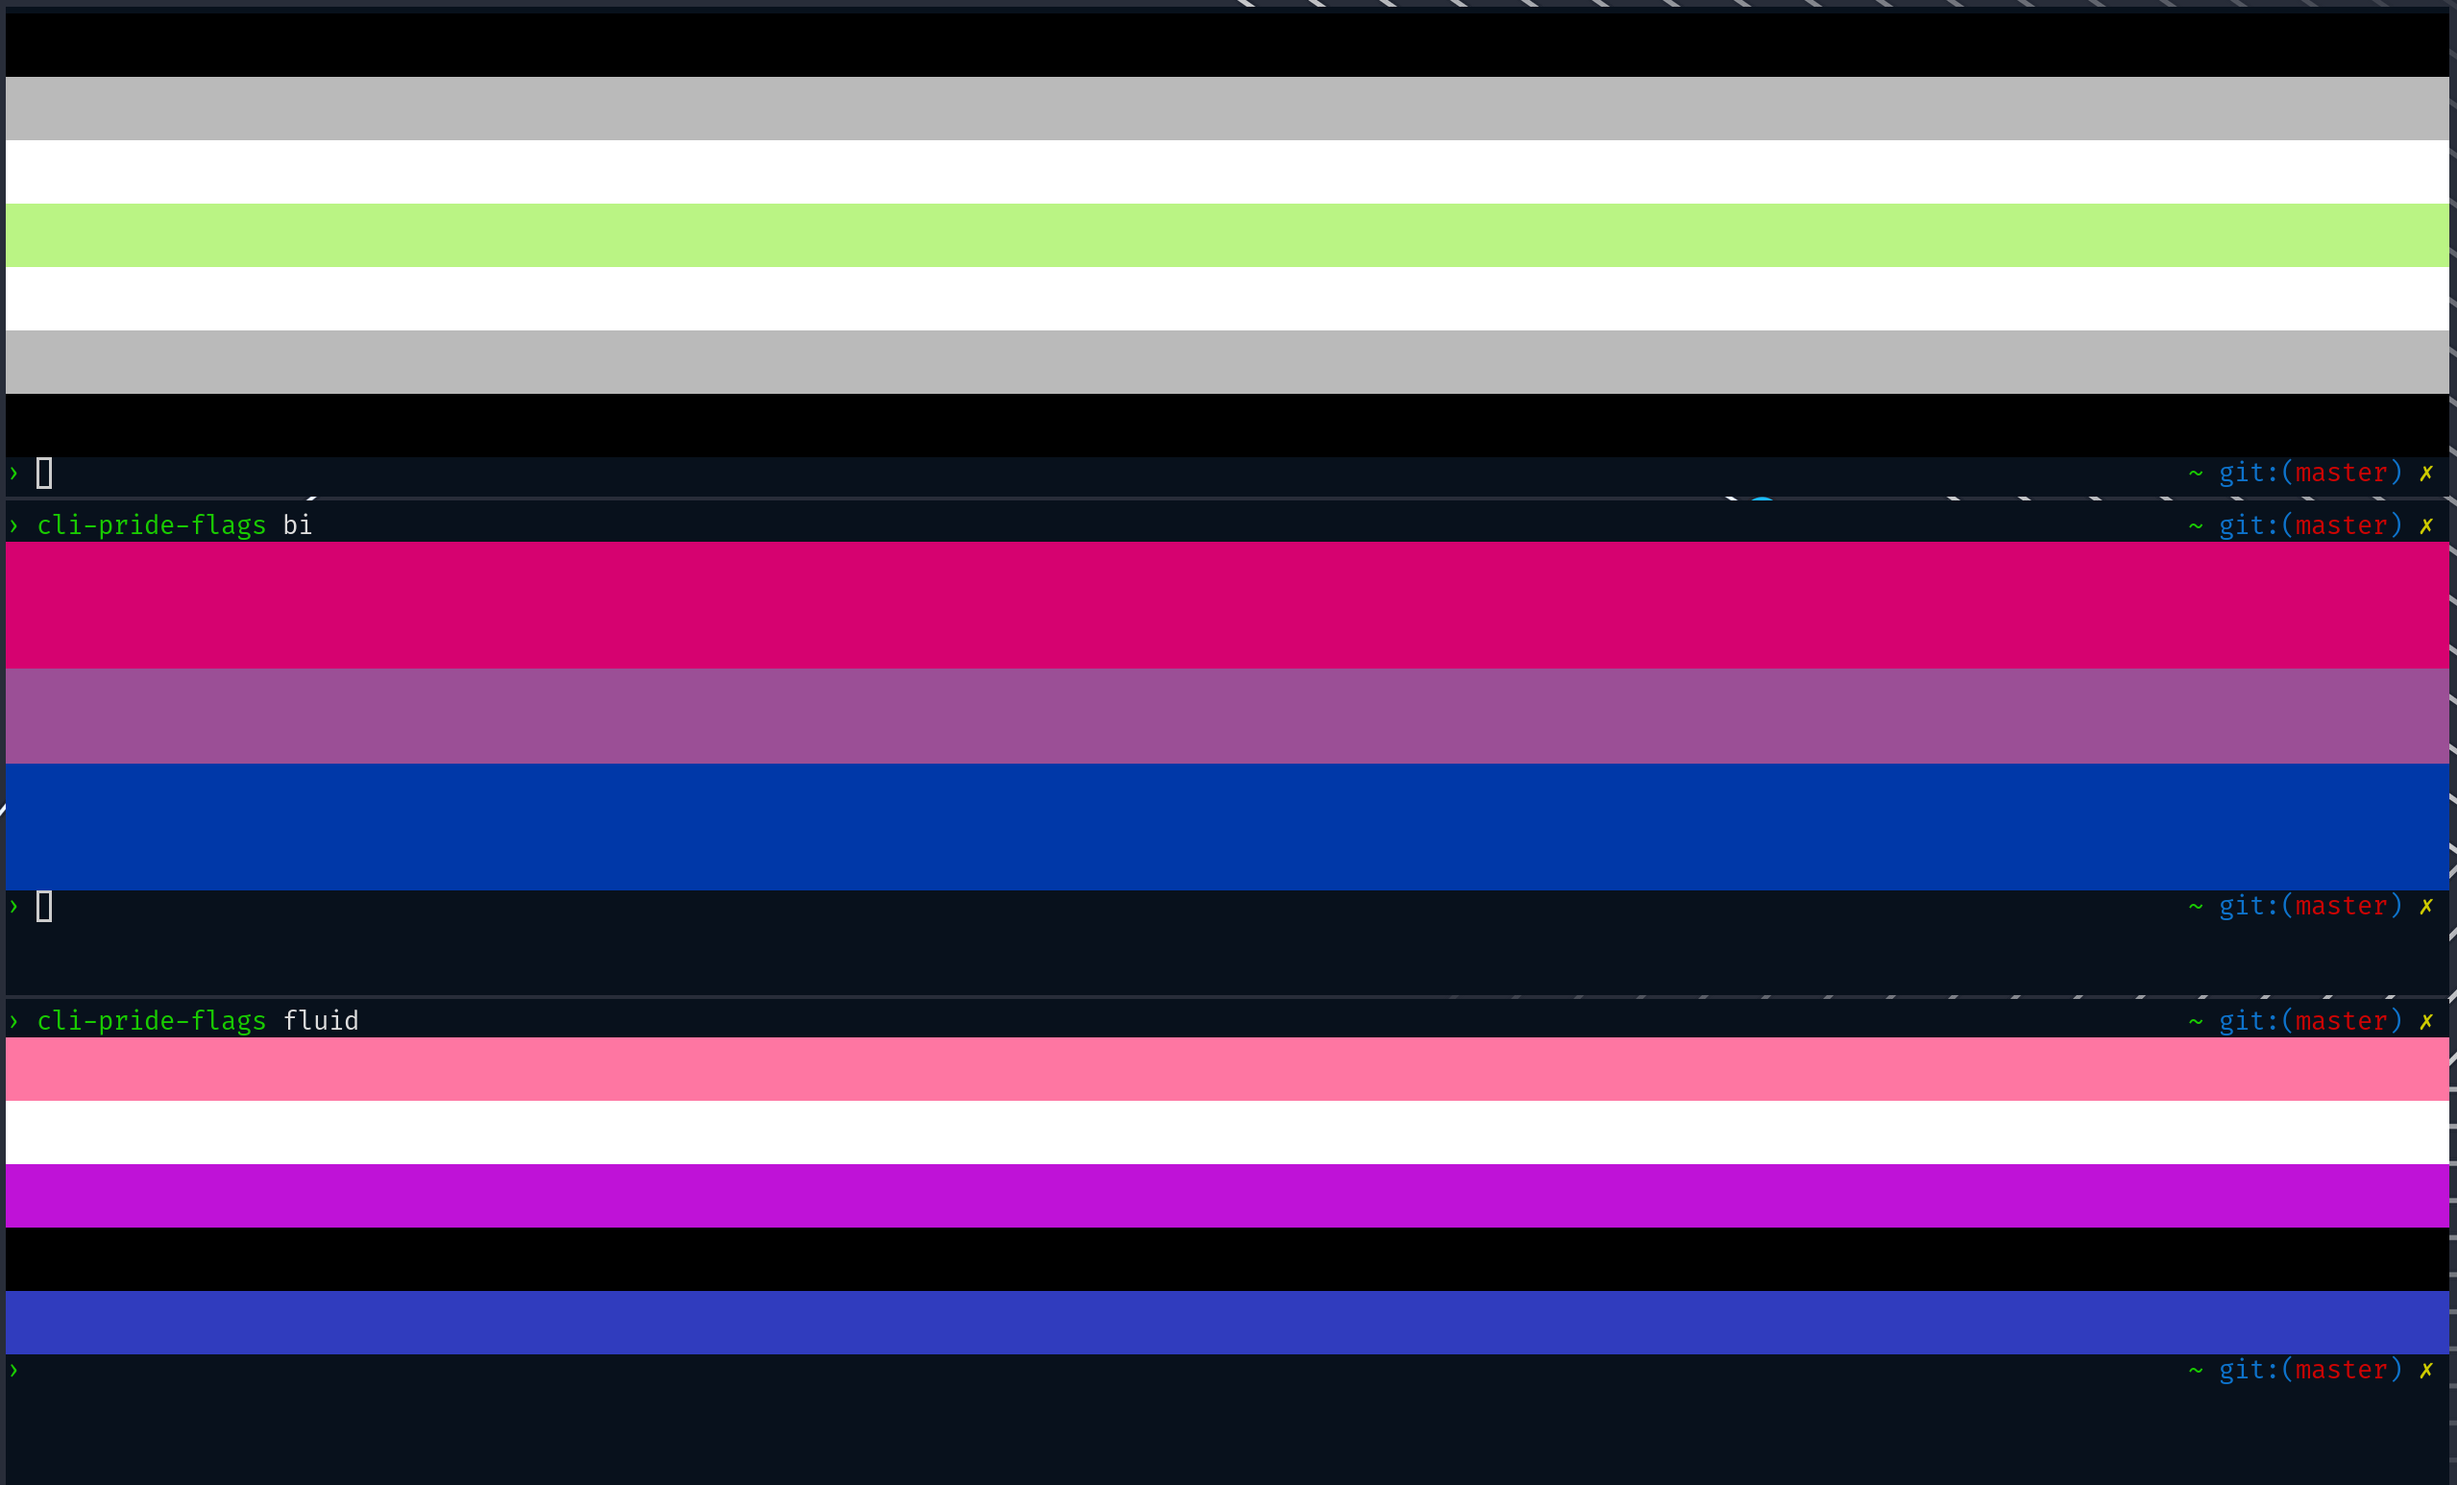
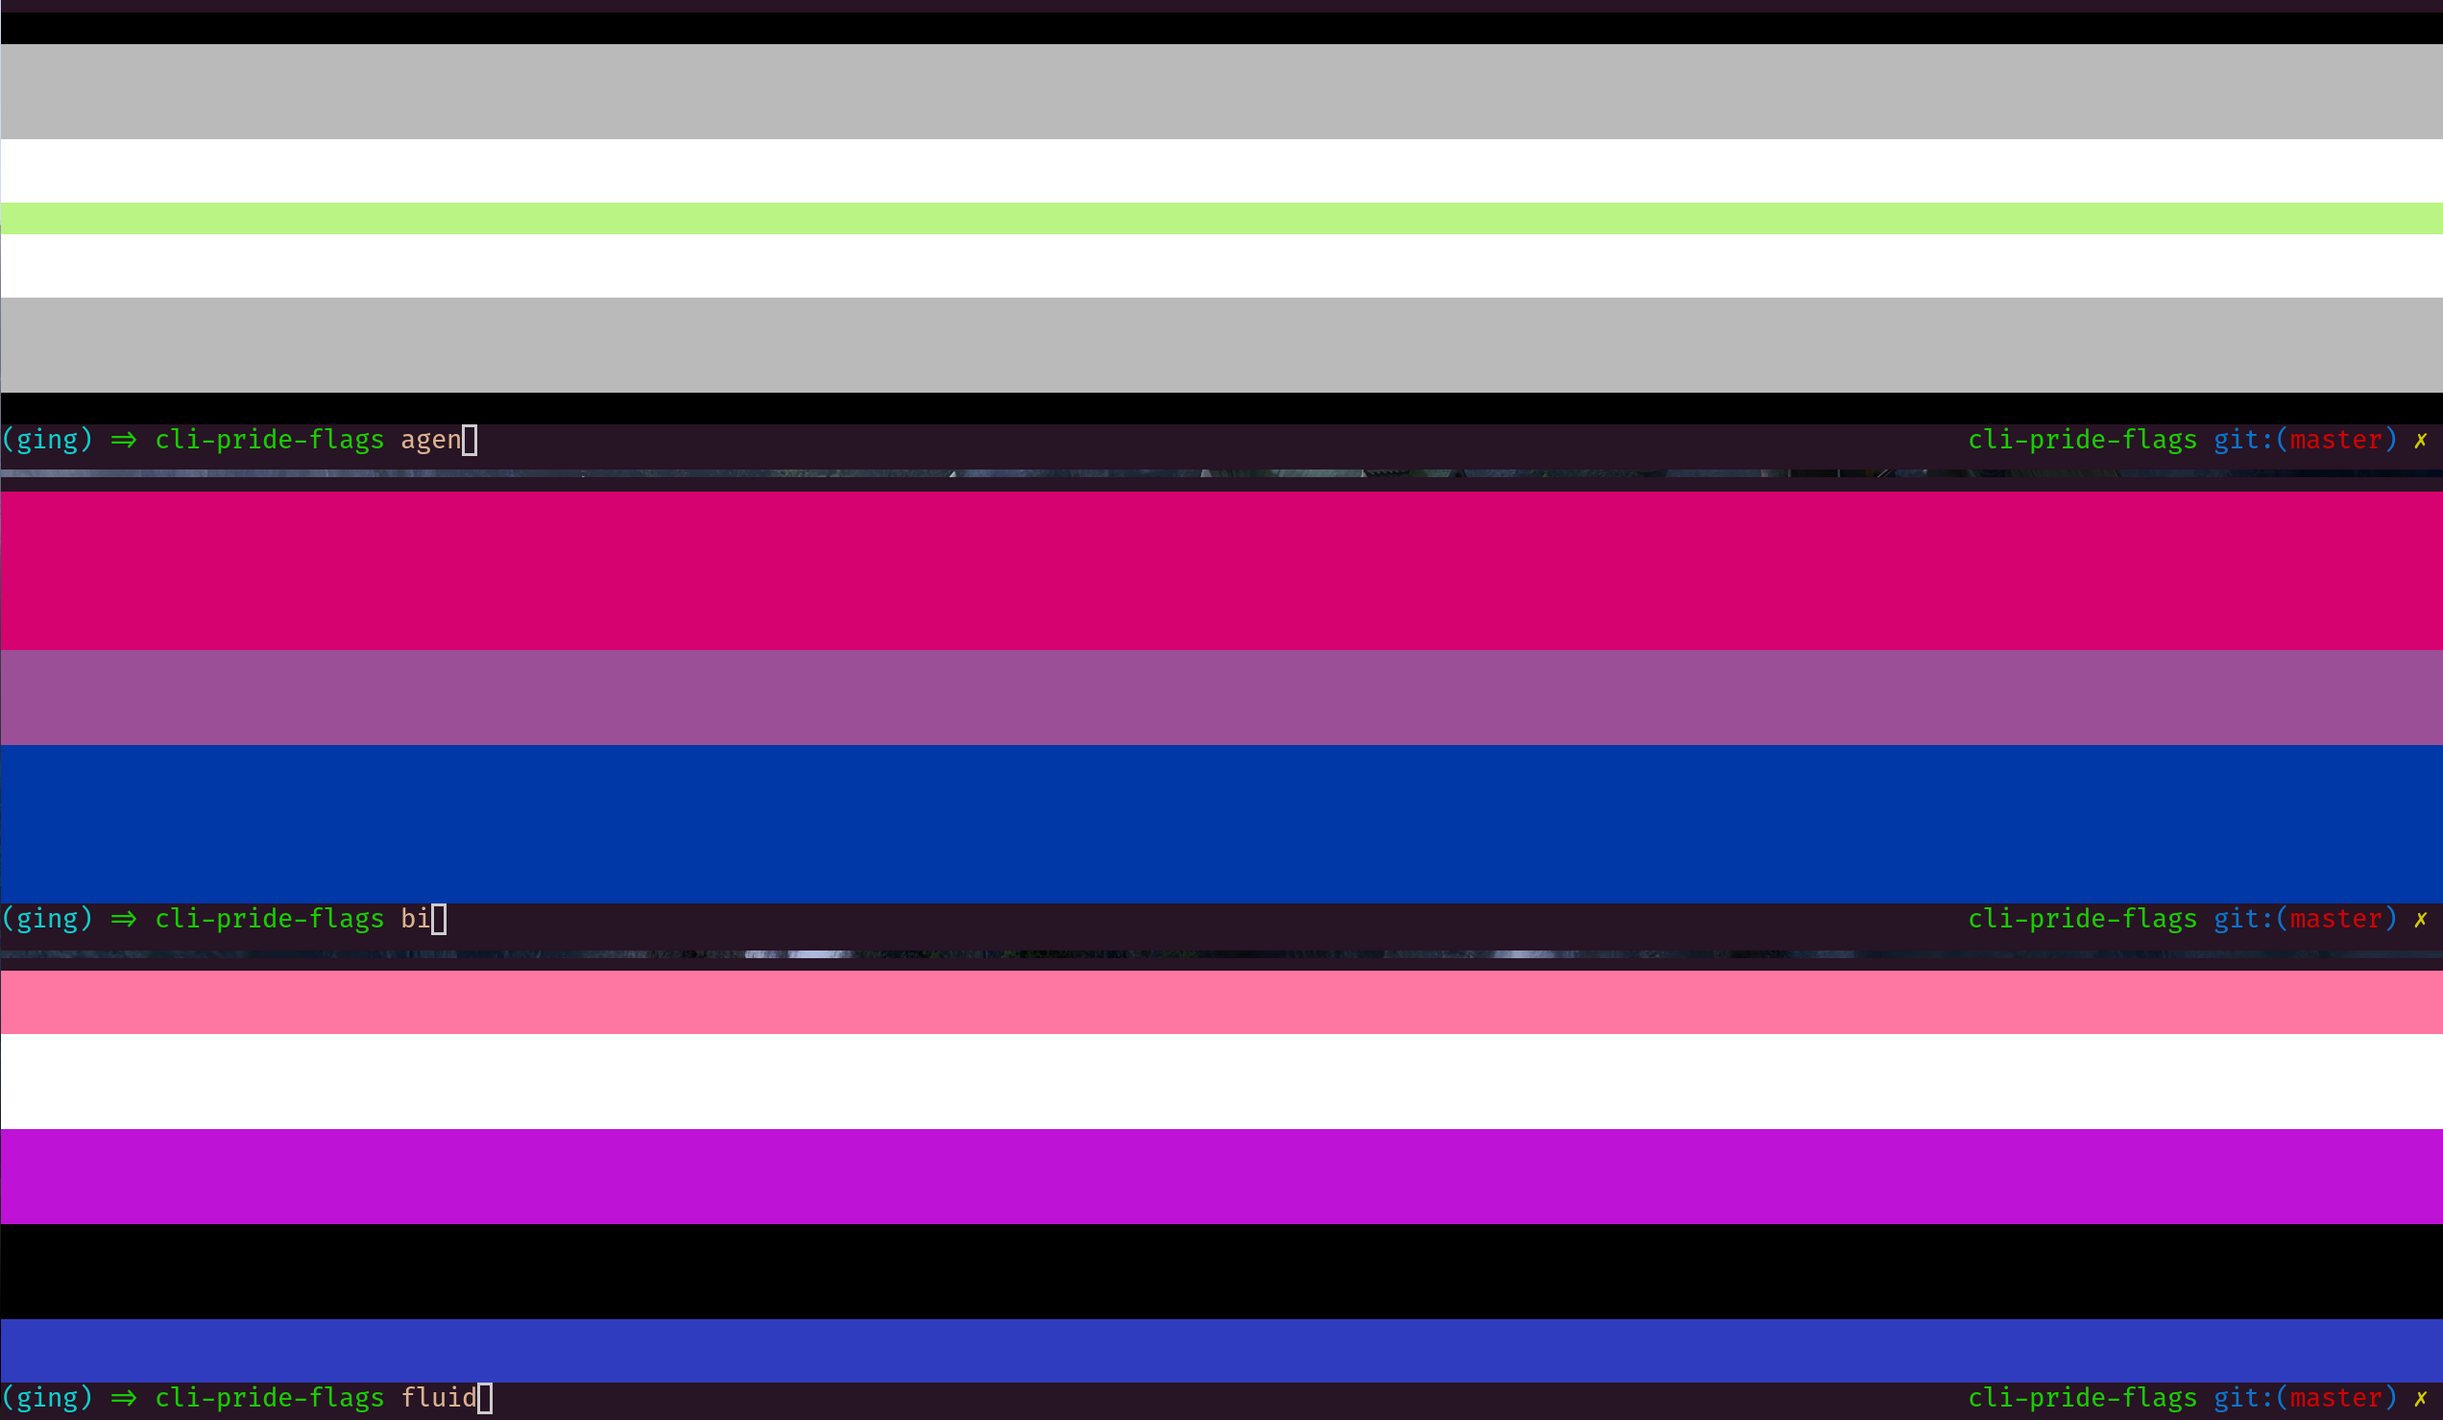
cleanup code, update screenshots

diff --git a/src/main.js b/src/main.js
@@ -1,87 +1,48 @@
 #!/usr/bin/env node
 
+// import deps
 const chalk = require("chalk")
+// import local files
 const flags = require("./flags.json")
 const { name, version } = require('../package.json')
-const { toCumulativeWeights, FlagColors } = require('./util')
+const { scaleFlag, stripDashes, FlagColors, ArgParser } = require('./util')
 const BLOCK = "█"
-const MINI_FLAG_DISTANCE = 12 // spaces from the left
-const { args, options } = parseArgs(process.argv.slice(2))
+const argparser = new ArgParser({
+    'help': { aliases: ['h'], description: 'Display this help text'},
+    'gradient': { aliases: ['g'], description: 'Make the flag a smooth gradient'},
+    'live': { aliases: ['l'], description: 'Hold the terminal open and redraw the flag upon resize, closing when any key is pressed'},
+    'vertical': { aliases: ['v'], description: 'Display the flag, but vertically'}
+})
+const {args, options} = argparser.parse()
 const CHOSEN_FLAG = args[0]
-const horizontalFunc = (row, col) => row / stripeHeight;
-const verticalFunc = (row, col) => col / stripeWidth;
-const funcToUse = options.vertical ? verticalFunc : horizontalFunc;
-
-// basic cli arg parser
-function parseArgs(args) {
-    let result = {
-        args: [],
-        options: {
-            help: false,
-            keepalive: false,
-            vertical: false,
-            gradient: false
-        }
-    }
-    for (const arg of args) {
-        if (arg.startsWith('-')) {
-            switch (arg) {
-                case '-h': {
-                    result.options.help = true
-                    break
-                }
-                case '-l': {
-                    result.options.keepalive = true
-                    break
-                }
-                case '-v': {
-                    result.options.vertical = true
-                    break
-                }
-                case '-g': {
-                    result.options.gradient = true
-                    break
-                }
-                default: {
-                    break
-                }
-            }
-        } else {
-            result.args.push(arg)
-        }
-    }
-    return result
-}
 
 function help() {
     console.log(`Usage: ${chalk.green(name)} ${chalk.blue("[options...]")} ${chalk.yellow("[flag]")}`)
     console.log("Options:")
-    // honestly ill just hardcode these
-    console.log("  -h    Display this help text")
-    console.log("  -l    Hold the terminal open and redraw the flag upon resize, closing when any key is pressed")
-    console.log("  -v    Display the flag, but vertically")
+    console.log(argparser.listOptions())
     console.log("Flags:")
-    let flagList = ""
-    const flagKeys = Object.keys(flags).sort()
-    for (const flag of flagKeys) {
-        // we want all the mini-flags to be at the same distance,
-        // so figure out how many spaces we need to add
-        const spaces = MINI_FLAG_DISTANCE - flag.length
-        let s = `  ${flag}` // indent flag...
-        s = s.padEnd(s.length + spaces, " ") // ...add calculated spaces...
-        for (const color of flags[flag].stripes) {
-            s += chalk.hex(color.code)(BLOCK) // and then make the flag
+    let flagList = []
+    const flagNames = Object.keys(flags).sort()
+    const MINI_FLAG_DISTANCE = 12
+    for (const flagName of flagNames) {
+        // we want all the mini-flags to be at the same starting distance from the left,
+        // so figure out how many spaces we need to add after the flags name
+        const spaces = MINI_FLAG_DISTANCE - flagName.length
+        let flagLine = `  ${flagName}` // indent the line...
+        flagLine = flagLine.padEnd(flagLine.length + spaces, " ") // ...add calculated spaces...
+        for (const color of flags[flagName].stripes) {
+            flagLine += chalk.hex(color.code)(BLOCK) // ..and then add the miniflag
         }
-        flagList += `${s}\n`
+        flagList.push(flagLine)
     }
-    console.log(chalk.green(flagList))
-    console.log(chalk.green(`${name} ${chalk.yellow(`v${version}`)}\n${chalk.reset("Flag count:")} ${chalk.blue(flagKeys.length)}`))
+    console.log(chalk.greenBright(flagList.join('\n')))
+    console.log(chalk.green(`${name} ${chalk.yellow(`v${version}`)}\n${chalk.reset("Flag count:")} ${chalk.blue(flagNames.length)}`))
 }
 
 
 function createFlag() {
     const colors = new FlagColors(flag)
-    const { availableHeight, stripeHeightsFinal, availableWidth } = scaleFlag(flag)
+    const { availableHeight, stripeHeightsFinal, availableWidth } = scaleFlag(flag, options)
     let finishedFlag = ""
     let currLine = 0
     for (const stripeIndex in flag.stripes) {
@@ -102,26 +63,6 @@ function createFlag() {
     return finishedFlag
 }
 
-function scaleFlag(flag, vertical = false) {
-    const direction = (vertical ? process.stdout.columns : process.stdout.rows)
-    const flagHeight = flag.stripes.reduce((a, stripe) => a + stripe.height, 0)
-    const maxScale = Math.floor(direction / flagHeight)
-    const availableHeight = (options.keepalive ? flagHeight * maxScale : process.stdout.rows)
-    const availableWidth = process.stdout.columns
-    const stripeHeights = flag.stripes.map(stripe => stripe.height)
-    const stripeRowNumbers = toCumulativeWeights(stripeHeights) // map each stripe height to a percentage...
-        .map(weight => { // i tried to make this a ternary but it wouldnt work :<
-            if (vertical) {
-                return weight * availableWidth
-            } else {
-                return weight * availableHeight
-            }
-        }) // ...map back to line numbers in the available space...
-        .map(Math.floor) // ...and err on the side of caution, floor it to whole numbers (unless you have a fancy terminal that has half-lines?)
-    const stripeHeightsFinal = stripeRowNumbers.map((e, i, a) => e - a[i - 1] || e) // now squash to the screen
-    return { flagHeight, maxScale, stripeHeightsFinal, availableHeight, availableWidth }
-}
-
 function createVerticalFlag() {
     // just createFlag but v
     //                     e
@@ -132,15 +73,14 @@ function createVerticalFlag() {
     //                     a
     //                     l
     const colors = new FlagColors(flag)
-    const { availableHeight, stripeHeightsFinal, availableWidth } = scaleFlag(flag, true)
+    const { availableHeight, stripeHeightsFinal, availableWidth } = scaleFlag(flag, options, true)
     let finishedFlag = ""
     // outer loop fills the screen
     let currPos = 0
     for (const stripeIndex in flag.stripes) {
         const stripeWidth = stripeHeightsFinal[stripeIndex]
         for (let j = 0; j < stripeWidth; j++) {
-            //const position = (currPos / availableWidth).toFixed(3)
-            const position = funcToUse(i, j)
+            const position = (currPos / availableWidth).toFixed(3)
             let color;
             if (options.gradient) {
                 color = colors.getColor(position, 'gradient')
@@ -151,19 +91,19 @@ function createVerticalFlag() {
             currPos++
         }
     }
-    return finishedFlag.repeat(availableHeight).trim()
+    return finishedFlag.repeat(availableHeight)
 }
 
 
 function draw() {
-    if (options.keepalive) {
+    if (options.live) {
         // Go to (0,0), clear screen, and hide cursor
         process.stdout.write("\x1b[0;0f\x1b[2J\x1b[?25l")
     }
     const builtFlag = options.vertical ? createVerticalFlag() : createFlag()
     process.stdout.write(builtFlag)
 
-    if (!options.keepalive) {
+    if (!options.live) {
         process.stdout.write("\n")
     }
 }
@@ -184,7 +124,7 @@ if (options.help || CHOSEN_FLAG === undefined || !Object.keys(flags).includes(CH
 
 const flag = flags[CHOSEN_FLAG.toLowerCase()]
 
-if (options.keepalive) {
+if (options.live) {
     // Ensure any keypress will close program
     process.stdin.setRawMode(true)
     // Make sure process doesn't exit when finished

diff --git a/src/util.js b/src/util.js
@@ -1,3 +1,5 @@
+const chalk = require("chalk")
+
 // Turn an input array of Numbers into an array of cumulative weights
 function toCumulativeWeights(inputArray, mode = null) {
     // copy the input
@@ -65,6 +67,33 @@ function RGBToHex(r, g, b) {
     const hexB = b.toString(16).padStart(2, "0")
     return "#" + hexR + hexG + hexB
 }
+function stripDashes(obj) {
+    // strip the dashes from the options object since `arg` is weird
+    const stripped = {}
+    for (const [name, value] of Object.entries(obj)) {
+        stripped[name.replace(/-/g, '')] = value
+    }
+    return stripped
+}
+function scaleFlag(flag, options, vertical = false) {
+    const direction = (vertical ? process.stdout.columns : process.stdout.rows)
+    const flagHeight = flag.stripes.reduce((a, stripe) => a + stripe.height, 0)
+    const maxScale = Math.floor(direction / flagHeight)
+    const availableHeight = (options.live ? flagHeight * maxScale : process.stdout.rows)
+    const availableWidth = process.stdout.columns
+    const stripeHeights = flag.stripes.map(stripe => stripe.height)
+    const stripeRowNumbers = toCumulativeWeights(stripeHeights) // map each stripe height to a percentage...
+        .map(weight => { // i tried to make this a ternary but it wouldnt work :<
+            if (vertical) {
+                return weight * availableWidth
+            } else {
+                return weight * availableHeight
+            }
+        }) // ...map back to line numbers in the available space...
+        .map(Math.floor) // ...and err on the side of caution, floor it to whole numbers (unless you have a fancy terminal that has half-lines?)
+    const stripeHeightsFinal = stripeRowNumbers.map((e, i, a) => e - a[i - 1] || e) // now squash to the screen
+    return { flagHeight, maxScale, stripeHeightsFinal, availableHeight, availableWidth }
+}
 
 class ColorStop {
     constructor(data) {
@@ -109,4 +138,67 @@ class FlagColors {
 
 }
 
-module.exports = { toCumulativeWeights, FlagColors }
+class ArgParser {
+    #options = {}
+    #singleHyphenArgSplitter = /-(\w{2,})/ig
+    constructor(options) {
+        this.#options = options
+    }
+    #stripDashes(str) {
+        return str.replace(/-/g, '')
+    }
+    #findOpt(potentialOption) {
+        for (const [name, value] of Object.entries(this.#options)) {
+            if (name === potentialOption || (value.aliases && value.aliases.includes(potentialOption))) {
+                return name
+            }
+        }
+        return null
+    }
+    listOptions() {
+        let output = []
+        const SPACES = 10
+        for (const [name, value] of Object.entries(this.#options)) {
+            let str = `  --${name}`
+            if (value.aliases) {
+                str += `, -${value.aliases.join(', -')}`
+                str = chalk.blueBright(str) // make the options blue before continuing
+                str = str.padEnd(str.length + (SPACES - name.length), " ")
+                str += `  ${value.description}`
+                output.push(str)
+            }
+        }
+        return output.join('\n')
+    }
+    parse() {
+        let inputArray = [...process.argv.slice(2)] // copy
+
+        // expand any grouped args ("-abc" -> ["-a", "-b", "-c"])
+        for (const index in inputArray) {
+            const arg = inputArray[index]
+            const matches = [...arg.matchAll(this.#singleHyphenArgSplitter)][0]
+            if (!matches || !matches[1]) {
+                continue
+            }
+            const options = matches[1].split('')
+            inputArray.splice(index, 1, ...options)
+        }
+        let args = []
+        let options = {}
+        for (const input of inputArray) {
+            if (!input) {
+                continue
+            }
+            const lowerCasedInput = input.toLowerCase()
+            const potentialOption = this.#findOpt(this.#stripDashes(lowerCasedInput))
+            if (potentialOption) {
+                options[potentialOption] = true
+            } else {
+                args.push(lowerCasedInput)
+            }
+        }
+        return {args, options}
+    }
+}
+
+module.exports = { scaleFlag, stripDashes, FlagColors, ArgParser }

diff --git a/README.MD b/README.MD
@@ -16,19 +16,21 @@ There's also a package in the AUR, maintained by `u/rhysperry111`! Install it wi
 
 # Usage
 
-`cli-pride-flags [options] [flag]`
+`cli-pride-flags [options...] [flag]`
 Options:
   -h    Display the help text
+  -v    Display the flag, but vertically
+  -g    Make the flag a smooth gradient
   -l    Hold the terminal open and redraw the flag upon resize, closing when any key is pressed
 
 - Flag is the name of the flag-- for example, you could input bi, trans, transfem, etc.
-Example: `cli-pride-flags -d trans` would display the trans flag and hold the terminal.
+Example: `cli-pride-flags -l trans` would display the trans flag and hold the terminal.
 
 # Screenshots
 
 Theres a page displaying all the flags on my site [here :3](https://experibass.github.io/flags.html)
 
-Some screenshots in my terminal are below!
+Some screenshots are below!
 
 ![agen, bi, fluid](./screenies/1.png)
 
@@ -39,4 +41,4 @@ Some screenshots in my terminal are below!
 none :D
 
 # TODO
-- Gradient? (I don't think chalk supports gradients, id need a alternative...)
+- commit more crimes, but queerly
